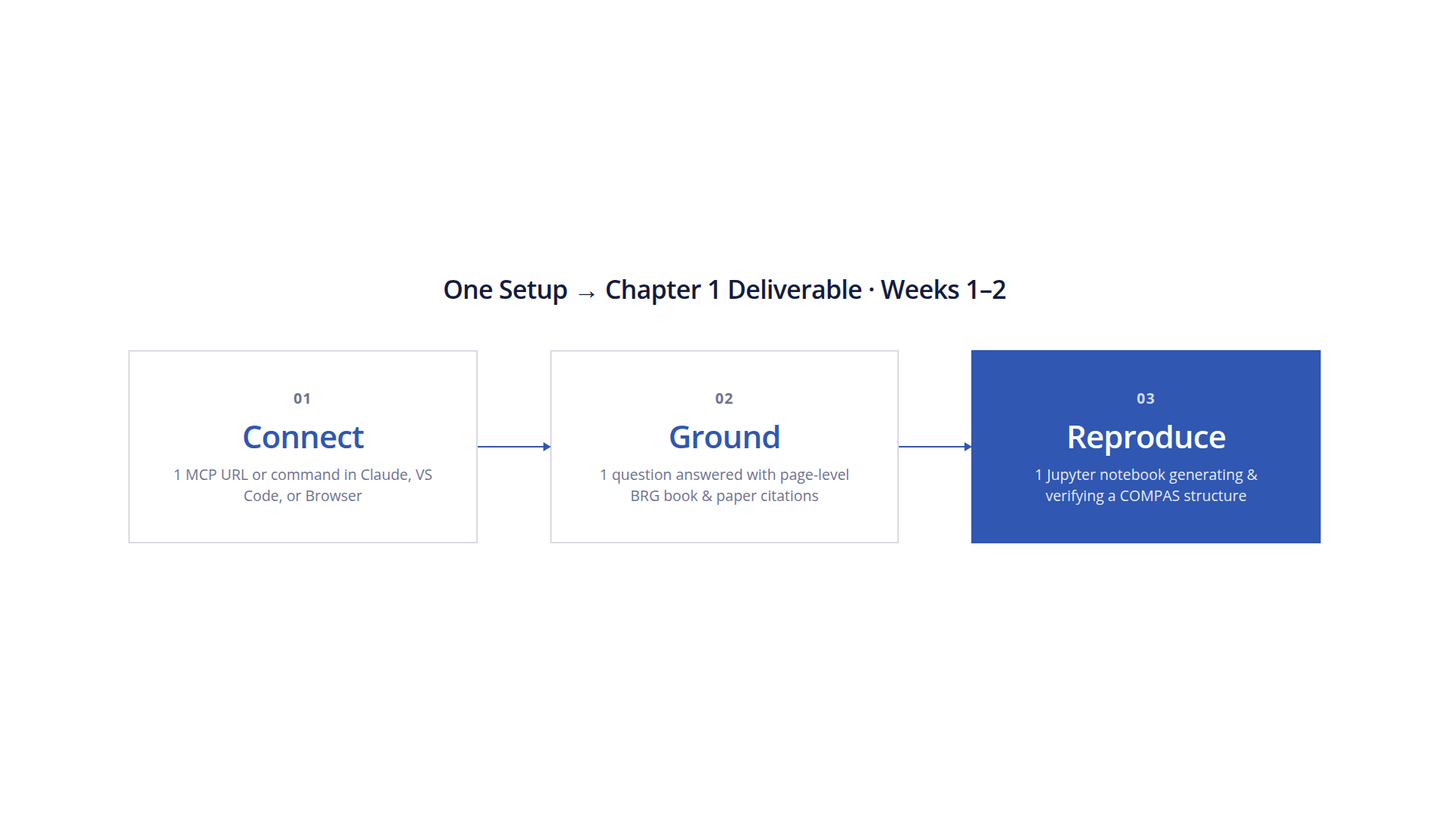
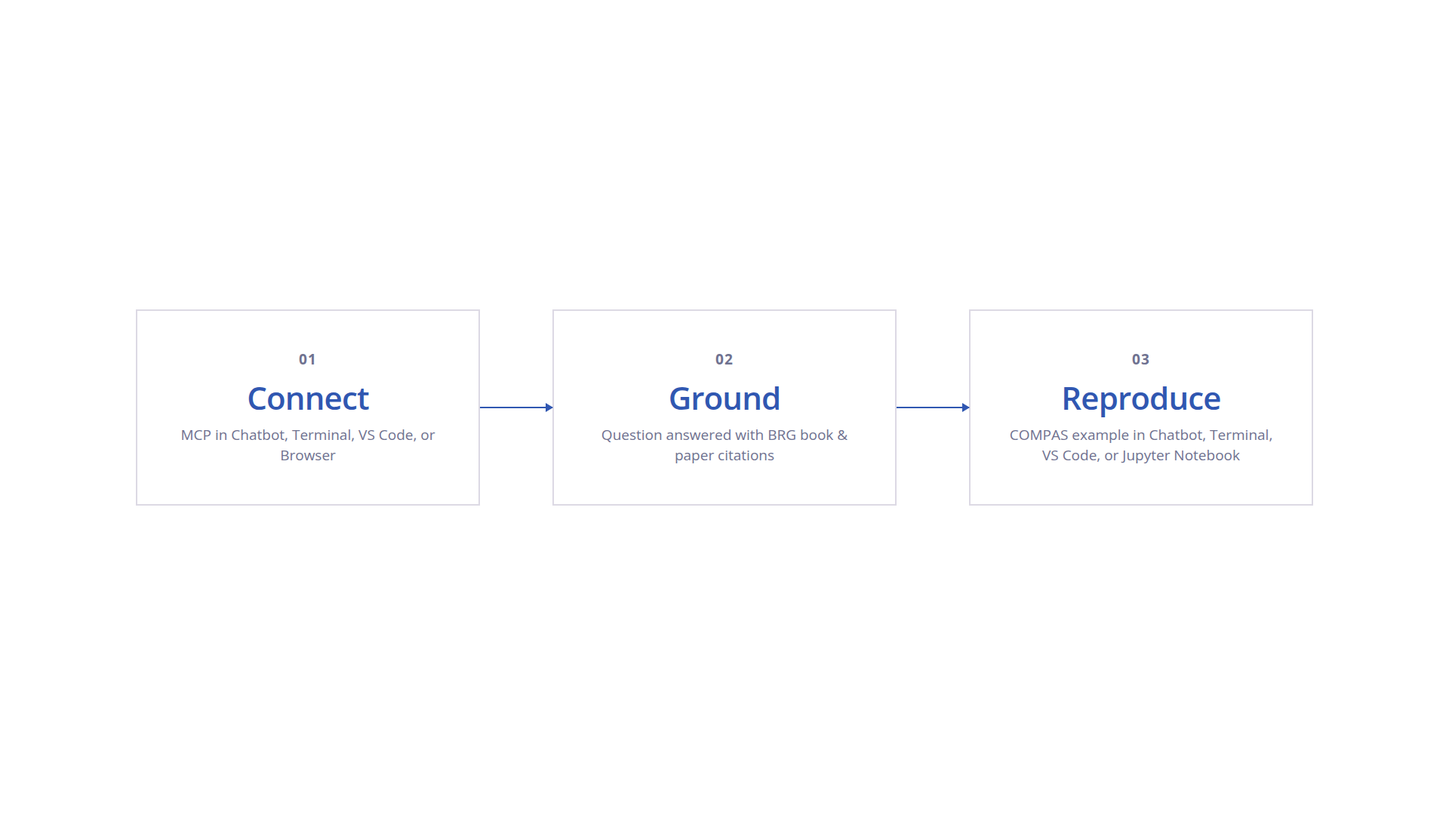
Step central 4 BRG pillars across Slides 3-6, add reflection-cleaned PR3D presentation GIF, maximize workspace laptop, and refine closing slide

diff --git a/CAS/website/data.js b/CAS/website/data.js
@@ -28,8 +28,55 @@ window.CAS = {
             { src: 'presentations/mcp/slide-1.png', alt: 'Laptop showing structural form and force diagrams beside a source-grounded study notebook chat.' },
             { src: 'presentations/mcp/slide-2.png?v=2', alt: 'Books in German, French and English, a laptop showing scripts and an LLM study notebook, and a tablet with graphic statics notes.' },
             {
-              key: 'applications',
-              alt: 'BRG applications: brg_papers, brg_theory, brg_framework and brg_presentation, with brg_framework showcased across Chatbot, Terminal and VS Code.',
+              key: 'applications-papers',
+              alt: 'brg_papers highlighted among the four BRG pillars, showcasing the BRG publications website chatbot querying 154 papers and PhD theses.',
+              applications: {
+                groups: [
+                  { title: 'brg_papers', emphasis: true },
+                  { title: 'brg_theory' },
+                  { title: 'brg_framework' },
+                  { title: 'brg_presentation' },
+                ],
+                laptopFrame: 'presentations/mcp/laptop-frame.png?v=6',
+                singleLaptop: {
+                  screen: 'presentations/mcp/brg-web-chatbot.jpg?v=3',
+                  url: 'library.html#/papers',
+                  title: 'Open BRG Papers & PhD Theses in Library',
+                },
+              },
+            },
+            {
+              key: 'applications-theory',
+              alt: 'brg_theory highlighted among the four BRG pillars, showing historical Graphic Statics books turned into a searchable MCP resource.',
+              applications: {
+                groups: [
+                  { title: 'brg_papers' },
+                  { title: 'brg_theory', emphasis: true },
+                  { title: 'brg_framework' },
+                  { title: 'brg_presentation' },
+                ],
+                booksResource: {
+                  books: [
+                    { author: 'Bow', year: '1873', short: 'Diagrams of Forces', cover: 'presentations/mcp/gs-books/bow-1873.jpg', href: 'library.html#/b/framed-structures-bow' },
+                    { author: 'Cremona', year: '1879', short: 'Reciprocal Figures', cover: 'presentations/mcp/gs-books/cremona-1879.jpg', href: 'library.html#/b/cremona-graphical-calculus-part-2' },
+                    { author: 'Henneberg', year: '1911', short: 'Graphische Statik', cover: 'presentations/mcp/gs-books/henneberg-1911.jpg', href: 'library.html#/b/graphic-statics-henneberg' },
+                    { ellipsis: true },
+                    { author: 'Föppl', year: '1920', short: 'Graphische Statik', cover: 'presentations/mcp/gs-books/foeppl-1920.jpg', href: 'library.html#/b/graphic-statics-foeppl' },
+                    { author: 'Trefftz', year: '1936', short: 'Graphostatik', cover: 'presentations/mcp/gs-books/trefftz-1936.jpg', href: 'library.html#/b/graphostatics-trefftz' },
+                  ],
+                  pipeline: [
+                    { title: 'Scans', sub: 'PDFs & plates' },
+                    { title: 'OCR & LaTeX', sub: 'Equations & layout' },
+                    { title: 'Translation', sub: 'Proofread Markdown & figures' },
+                    { title: 'Cloudflare R2', sub: 'LIBRARY.md & chapters' },
+                    { title: 'MCP', sub: 'books-mcp resource', emphasis: true },
+                  ],
+                },
+              },
+            },
+            {
+              key: 'applications-framework',
+              alt: 'brg_framework highlighted among the four BRG pillars, showcased across Chatbot, Terminal and VS Code.',
               applications: {
                 groups: [
                   { title: 'brg_papers' },
@@ -45,12 +92,28 @@ window.CAS = {
                 ],
               },
             },
+            {
+              key: 'applications-presentation',
+              alt: 'brg_presentation highlighted among the four BRG pillars, showing PR3D in 3D slides (Closed joint and Open source workflow) inside the laptop.',
+              applications: {
+                groups: [
+                  { title: 'brg_papers' },
+                  { title: 'brg_theory' },
+                  { title: 'brg_framework' },
+                  { title: 'brg_presentation', emphasis: true },
+                ],
+                laptopFrame: 'presentations/mcp/laptop-frame.png?v=6',
+                singleLaptop: {
+                  screen: 'presentations/mcp/brg-presentation.gif?v=1',
+                },
+              },
+            },
             { src: 'presentations/mcp/slide-4.png?v=1', alt: 'LLM for BRG architecture: Context layers (MCP, Skills, Hooks, Memory, Agents) connected to BRG and the Context, Parsing, Storage, Indexing and LLM pipeline.' },
             { src: 'presentations/mcp/slide-5.png?v=1', alt: 'Method focus across four subjects: FD (Force Density, highlighted), DR (Dynamic Relaxation), TNA (Thrust Network Analysis) and AGS (Algebraic Graphic Statics).' },
             { src: 'presentations/mcp/slide-6.png?v=2', alt: 'Folder structure of brg_framework MCP for the Force Density (FD) method.' },
             {
               key: 'interactive-drawing-fd',
-              alt: 'Interactive Force Density presentations (5 clickable decks) and presentation.yaml internals, displayed beside a large clickable laptop.',
+              alt: 'Interactive Force Density presentations (5 clickable decks) and 02-question.yaml stage format, displayed beside a large clickable laptop.',
               interactiveDrawing: {
                 methodTitle: 'FD · Interactive Drawings',
                 methodSub: '5 decks',
@@ -61,16 +124,19 @@ window.CAS = {
                   { title: 'Jacobian & Matrix Derivation', url: 'https://petrasvestartas.github.io/session/?stage=force-density-derivation' },
                   { title: 'Materialization & Cut Lengths', url: 'https://petrasvestartas.github.io/session/?stage=force-density-materialization' },
                 ],
-                specTitle: 'presentation.yaml',
-                yaml: `name: Force Density
-spatial_split: 0.56
-topics:
-  - title: 1 Equilibrium
+                specTitle: '02-question.yaml',
+                yaml: `title: QUESTION
+camera: { yaw: -58, pitch: 26 }
+net:
+  fixed: { n1: [0,0,0], n2: [5,0,3] }
+  free: { n0: [3.6, 3.4, 1.9] }
+  cables: { e0: [n0, n1], e1: [n0, n2] }
+  q: 1
+slides:
+  - title: POSITION OF FREE NODE n0
     steps:
-      - file: steps/00_00.pb
-        effects:
-          - { name: poly-0, kind: morph }
-          - { name: eq-sum, kind: grow }`,
+      - say: 'Four fixed nodes...'
+        show: net`,
                 laptopFrame: 'presentations/mcp/laptop-frame.png?v=6',
                 gif: 'presentations/mcp/fd-interactive.gif?v=1',
                 url: 'https://petrasvestartas.github.io/session/?stage=force-density',
@@ -107,57 +173,15 @@ slides:
               },
             },
             {
-              key: 'books-resource',
-              alt: 'Compact Graphic Statics books with original covers turned into a digital MCP resource via scanning, OCR & LaTeX, translation, Cloudflare R2 storage and MCP.',
-              booksResource: {
-                lead: 'LLMs are built for text — turning historical books into searchable digital resources.',
-                books: [
-                  { author: 'Bow', year: '1873', short: 'Diagrams of Forces', cover: 'presentations/mcp/gs-books/bow-1873.jpg', href: 'library.html#/b/framed-structures-bow' },
-                  { author: 'Cremona', year: '1879', short: 'Reciprocal Figures', cover: 'presentations/mcp/gs-books/cremona-1879.jpg', href: 'library.html#/b/cremona-graphical-calculus-part-2' },
-                  { author: 'Henneberg', year: '1911', short: 'Graphische Statik', cover: 'presentations/mcp/gs-books/henneberg-1911.jpg', href: 'library.html#/b/graphic-statics-henneberg' },
-                  { ellipsis: true },
-                  { author: 'Föppl', year: '1920', short: 'Graphische Statik', cover: 'presentations/mcp/gs-books/foeppl-1920.jpg', href: 'library.html#/b/graphic-statics-foeppl' },
-                  { author: 'Trefftz', year: '1936', short: 'Graphostatik', cover: 'presentations/mcp/gs-books/trefftz-1936.jpg', href: 'library.html#/b/graphostatics-trefftz' },
-                ],
-                pipeline: [
-                  { title: 'Scans', sub: 'PDFs & plates' },
-                  { title: 'OCR & LaTeX', sub: 'Equations & layout' },
-                  { title: 'Translation', sub: 'Proofread Markdown & figures' },
-                  { title: 'Cloudflare R2', sub: 'LIBRARY.md & chapters' },
-                  { title: 'MCP', sub: 'books-mcp resource', emphasis: true },
-                ],
-              },
-            },
-            {
-              key: 'papers-resource',
-              alt: 'brg_papers and PhD theses (154 papers, 2006–2024) powering traceable citations, research-gap mapping, and a chatbot on the BRG publications website.',
-              papersResource: {
-                title: 'brg_papers',
-                count: '154 papers · PhD theses · 2006–2024',
-                subjects: 'TNA & Masonry · Materialization · Graphic Statics · Form Finding',
-                uses: [
-                  { title: 'Traceable Citations', sub: 'Exact paper, figure & page URL' },
-                  { title: 'Research-Gap Mapping', sub: 'Covered vs. missing lines' },
-                ],
-                laptopFrame: 'presentations/mcp/laptop-frame.png?v=6',
-                screen: 'presentations/mcp/brg-web-chatbot.jpg?v=3',
-                url: 'library.html#/papers',
-                hint: 'Open BRG papers & theses in Library ↗',
-              },
-            },
-            { src: 'presentations/mcp/slide-10.png?v=2', alt: 'LLMs propose, solvers verify: LLM parses text and writes COMPAS script, COMPAS Solver computes exact equilibrium (residual = 0), and Verified Model / Plot returns errors and residuals to the LLM.' },
-            {
               key: 'workspace-slide',
               alt: 'Zero-install browser workspace combining the BRG Library, BRG Terminal, and JupyterLite in one screen with Claude, Gemini, and Kimi support.',
               workspaceSlide: {
-                lead: 'Zero-install Day-1 workspace — Library, BRG Terminal & JupyterLite in one browser tab.',
                 laptopFrame: 'presentations/mcp/laptop-frame.png?v=6',
                 screen: 'presentations/mcp/workspace-screen.jpg?v=2',
                 url: 'library.html#/notebook',
-                hint: 'Open browser workspace (Claude · Gemini · Kimi) ↗',
               },
             },
-            { src: 'presentations/mcp/slide-12.png?v=2', alt: 'One Setup to Chapter 1 Deliverable (Weeks 1–2): 01 Connect MCP, 02 Ground an answer with page-level BRG book & paper citations, 03 Reproduce a verified COMPAS structure in a Jupyter notebook.' },
+            { src: 'presentations/mcp/slide-12.png?v=3', alt: '01 Connect MCP in Chatbot, Terminal, VS Code, or Browser; 02 Ground a question with BRG book & paper citations; 03 Reproduce a COMPAS example in Chatbot, Terminal, VS Code, or Jupyter Notebook.' },
           ],
         },
         items: [

diff --git a/CAS/website/style.css b/CAS/website/style.css
@@ -225,14 +225,26 @@ details[open] > summary .pm::after { transform: rotate(0deg); }
 .presentation-header { flex: none; display: grid; grid-template-columns: 1fr auto 1fr; align-items: center; gap: 12px; padding: 8px 16px; border-bottom: 1px solid var(--rule); }
 .presentation-header > span { color: var(--muted); font-size: 14px; }
 .presentation-close { justify-self: end; width: 40px; height: 40px; padding: 0; border: 0; background: none; color: var(--ink); font-size: 32px; line-height: 1; cursor: pointer; }
-.presentation-stage { flex: 1; min-height: 0; display: flex; align-items: center; justify-content: center; overflow: hidden; }
-.presentation-stage > img { display: block; width: 100%; height: 100%; object-fit: contain; }
-.apps-triangle-slide { position: relative; width: min(100vw, calc((100svh - 104px) * 1.98)); height: min(100%, 960px); max-width: 1900px; }
-.apps-top-center { position: absolute; left: 50%; top: 2%; transform: translateX(-50%); width: 13.5%; display: flex; flex-direction: column; gap: clamp(6px, 0.9vh, 10px); z-index: 3; }
-.apps-node { min-height: clamp(34px, 4.5vh, 48px); padding: 6px 12px; border: 2px solid var(--rule); background: var(--paper); display: flex; align-items: center; justify-content: center; text-align: center; }
-.apps-node strong { font-size: clamp(12px, 1.65vh, 17px); font-weight: 600; letter-spacing: -.015em; color: var(--c); line-height: 1.1; }
+.presentation-stage { flex: 1; min-height: 0; display: flex; flex-direction: column; overflow-x: hidden; overflow-y: auto; }
+.presentation-stage > img { display: block; width: 100%; height: 100%; object-fit: contain; margin: auto; }
+.apps-triangle-slide { position: relative; flex: none; margin: auto; width: min(100%, calc((100svh - 118px) * 1.979), 1900px); aspect-ratio: 1900 / 960; container-type: size; }
+.apps-top-center { position: absolute; left: 50%; top: 2%; transform: translateX(-50%); width: clamp(120px, 13.5%, 240px); display: flex; flex-direction: column; gap: 0.9cqb; z-index: 3; }
+.apps-node { width: 100%; min-height: 4.5cqb; padding: 0.4cqb 8px; border: 2px solid var(--rule); background: var(--paper); font: inherit; cursor: pointer; display: flex; align-items: center; justify-content: center; text-align: center; transition: border-color .15s, background .15s; }
+.apps-node:hover { border-color: var(--c); }
+.apps-node strong { font-size: clamp(9.5px, 1.8cqb, 17px); font-weight: 600; letter-spacing: -.015em; color: var(--c); line-height: 1.1; white-space: nowrap; }
 .apps-node.emphasis { border-color: var(--c); background: var(--c); }
 .apps-node.emphasis strong { color: #fff; }
+.apps-single-laptop { position: absolute; left: 50%; bottom: 0.8%; transform: translateX(-50%); width: 54.2%; display: block; text-decoration: none; color: inherit; transition: transform .2s; }
+a.apps-single-laptop:hover { transform: translateX(-50%) scale(1.008); }
+.apps-books-body { position: absolute; left: 50%; top: 25.5%; bottom: 1.5%; transform: translateX(-50%); width: 84%; display: flex; flex-direction: column; align-items: center; justify-content: center; gap: 2.6cqb; }
+.apps-books-body .books-shelf { gap: 1.8cqi; }
+.apps-books-body .books-cover-wrap { height: 27cqb; }
+.apps-books-body .books-ellipsis { padding-bottom: 3.5cqb; font-size: clamp(18px, 3.6cqb, 36px); }
+.apps-books-body .books-pipe-box { min-height: 7.5cqb; padding: 0.8cqb 8px; }
+.apps-books-body .books-pipe-arrow { height: 7.5cqb; }
+.apps-books-body .books-pipe-box strong { font-size: clamp(11px, 2.1cqb, 20px); }
+.apps-books-body .books-card strong { font-size: clamp(11px, 2cqb, 19px); margin-top: 0.3cqb; }
+.apps-books-body .books-card span, .apps-books-body .books-pipe-step span { font-size: clamp(9.5px, 1.5cqb, 14px); }
 .apps-demo { position: absolute; width: 42.5%; display: flex; flex-direction: column; align-items: center; gap: 4px; text-decoration: none; color: inherit; }
 .apps-demo.pos-0 { left: 0.4%; top: 1%; z-index: 1; }
 .apps-demo.pos-2 { right: 0.4%; top: 1%; z-index: 1; }
@@ -242,7 +254,7 @@ details[open] > summary .pm::after { transform: rotate(0deg); }
 .apps-laptop { position: relative; width: 100%; }
 .apps-laptop-frame { display: block; width: 100%; height: auto; }
 .apps-laptop-screen { position: absolute; left: 11.402%; top: 3.771%; width: 76.515%; height: 72.114%; object-fit: cover; border-radius: 1.3% 1.3% 0 0; }
-.idraw-slide, .papers-slide { width: min(98vw, 1800px); max-height: 100%; padding: clamp(10px, 1.8vh, 24px) clamp(12px, 2vw, 32px); display: grid; grid-template-columns: minmax(290px, 420px) 44px minmax(480px, 1150px); align-items: center; justify-content: center; gap: 12px; overflow-y: auto; }
+.idraw-slide, .papers-slide { flex: none; margin: auto; width: min(98vw, 1800px); padding: clamp(10px, 1.8vh, 24px) clamp(12px, 2vw, 32px); display: grid; grid-template-columns: minmax(290px, 420px) 44px minmax(480px, 1150px); align-items: center; justify-content: center; gap: 12px; }
 .papers-slide { grid-template-columns: minmax(270px, 360px) 44px minmax(500px, 1200px); }
 .idraw-left { display: flex; flex-direction: column; gap: clamp(10px, 1.5vh, 16px); min-width: 0; }
 .idraw-list-box { border: 2px solid var(--rule); background: var(--paper); display: flex; flex-direction: column; }
@@ -259,14 +271,14 @@ details[open] > summary .pm::after { transform: rotate(0deg); }
 .idraw-yaml { border: 2px solid var(--rule); background: var(--paper); display: flex; flex-direction: column; }
 .idraw-yaml-head { padding: 8px 16px; border-bottom: 1px solid var(--rule); }
 .idraw-yaml-head strong { font-size: clamp(13.5px, 1.75vh, 17px); font-weight: 600; color: var(--c); }
-.idraw-yaml-code { margin: 0; padding: clamp(10px, 1.4vh, 15px) 16px; font: 400 clamp(11px, 1.38vh, 14px)/1.45 ui-monospace, "SFMono-Regular", Menlo, Consolas, monospace; color: var(--ink); overflow-x: auto; }
+.idraw-yaml-code { margin: 0; padding: clamp(10px, 1.4vh, 15px) 14px; font: 400 clamp(10.5px, min(1.38vh, 1.05vw), 14px)/1.45 ui-monospace, "SFMono-Regular", Menlo, Consolas, monospace; color: var(--ink); overflow-x: auto; }
 .slide-arrow { display: flex; align-items: center; justify-content: center; }
 .slide-arrow i { position: relative; display: block; width: 34px; height: 2px; background: var(--c); }
 .slide-arrow i::after { content: ""; position: absolute; right: -1px; top: 50%; margin-top: -5px; border-top: 5px solid transparent; border-bottom: 5px solid transparent; border-left: 8px solid var(--c); }
-.idraw-laptop-link { width: 100%; display: flex; flex-direction: column; align-items: center; gap: 8px; text-decoration: none; color: inherit; transition: transform .2s; }
+.idraw-laptop-link { width: min(100%, calc((100svh - 172px) * 1.508)); margin: 0 auto; display: flex; flex-direction: column; align-items: center; gap: 8px; text-decoration: none; color: inherit; transition: transform .2s; }
 .idraw-laptop-link:hover { transform: scale(1.01); }
 .idraw-click-hint { font-size: clamp(13px, 1.65vh, 16px); font-weight: 600; color: var(--c); }
-.books-slide { width: min(96vw, 1640px); max-height: 100%; padding: clamp(12px, 2vh, 28px) clamp(16px, 2.5vw, 40px); display: flex; flex-direction: column; align-items: center; justify-content: center; gap: clamp(20px, 3.6vh, 40px); overflow-y: auto; }
+.books-slide { flex: none; margin: auto; width: min(96vw, 1640px); padding: clamp(12px, 2vh, 28px) clamp(16px, 2.5vw, 40px); display: flex; flex-direction: column; align-items: center; gap: clamp(20px, 3.6vh, 40px); }
 .books-lead { margin: 0; font-size: clamp(17px, 2.35vh, 25px); font-weight: 600; letter-spacing: -.015em; color: var(--ink); text-align: center; line-height: 1.3; }
 .books-shelf { width: 100%; max-width: 1540px; display: grid; grid-template-columns: 1fr 1fr 1fr auto 1fr 1fr; gap: clamp(14px, 2vw, 32px); align-items: end; }
 .books-ellipsis { align-self: center; padding: 0 8px 36px; font-size: clamp(24px, 3.4vh, 38px); font-weight: 700; color: var(--c); letter-spacing: .12em; white-space: nowrap; }
@@ -293,12 +305,23 @@ details[open] > summary .pm::after { transform: rotate(0deg); }
 .papers-pill.emphasis { border-color: var(--c); background: var(--c); }
 .papers-pill.emphasis strong { color: #fff; }
 .papers-pill.emphasis span { color: rgba(255, 255, 255, .86); }
-.workspace-slide { width: min(98vw, 1560px); max-height: 100%; padding: clamp(10px, 1.8vh, 24px); display: flex; flex-direction: column; align-items: center; justify-content: center; gap: clamp(12px, 2vh, 22px); overflow-y: auto; }
-.workspace-laptop-link { width: min(100%, calc((100svh - 175px) * 1.508)); max-width: 1220px; display: flex; flex-direction: column; align-items: center; gap: 8px; text-decoration: none; color: inherit; transition: transform .2s; }
+.workspace-slide { flex: none; margin: auto; width: 100%; padding: clamp(6px, 1.2vh, 14px); display: flex; flex-direction: column; align-items: center; }
+.workspace-laptop-link { width: min(96vw, calc((100svh - 148px) * 1.508), 1640px); min-width: min(96vw, 340px); display: flex; flex-direction: column; align-items: center; text-decoration: none; color: inherit; transition: transform .2s; }
 .workspace-laptop-link:hover { transform: scale(1.01); }
 @media (max-width: 960px) {
-  .apps-triangle-slide { position: static; width: 100%; height: auto; padding: 12px; display: flex; flex-direction: column; align-items: center; gap: 16px; overflow-y: auto; }
-  .apps-top-center, .apps-demo, .apps-demo.pos-0, .apps-demo.pos-1, .apps-demo.pos-2 { position: static; width: min(100%, 560px); transform: none; }
+  .apps-triangle-slide { position: static; width: 100%; height: auto; aspect-ratio: auto; container-type: normal; padding: 16px 12px; display: flex; flex-direction: column; align-items: center; gap: 16px; }
+  .apps-top-center, .apps-demo, .apps-demo.pos-0, .apps-demo.pos-1, .apps-demo.pos-2, .apps-single-laptop, .apps-books-body { position: static; width: min(100%, 560px); transform: none; }
+  .apps-top-center { gap: 8px; }
+  .apps-node { min-height: 40px; padding: 8px 12px; }
+  .apps-node strong { font-size: 15px; }
+  a.apps-single-laptop:hover { transform: none; }
+  .apps-books-body { width: min(100%, 720px); gap: 20px; }
+  .apps-books-body .books-shelf { gap: 16px; }
+  .apps-books-body .books-cover-wrap { height: 170px; }
+  .apps-books-body .books-ellipsis { padding-bottom: 24px; font-size: 28px; }
+  .apps-books-body .books-pipe-box { min-height: 56px; padding: 10px 12px; }
+  .apps-books-body .books-pipe-box strong, .apps-books-body .books-card strong { font-size: 16px; }
+  .apps-books-body .books-card span, .apps-books-body .books-pipe-step span { font-size: 13px; }
   .idraw-slide, .papers-slide { grid-template-columns: 1fr; justify-items: center; }
   .idraw-left, .papers-col { width: min(100%, 560px); }
   .slide-arrow { display: none; }

diff --git a/website/src/PresentationSlideshow.vue b/website/src/PresentationSlideshow.vue
@@ -19,6 +19,10 @@ const open = async () => {
 const close = () => dialog.value.close();
 const previous = () => { current.value = (current.value + props.slides.length - 1) % props.slides.length; };
 const next = () => { current.value = (current.value + 1) % props.slides.length; };
+const jumpToGroup = (title) => {
+  const idx = props.slides.findIndex((s) => s.applications?.groups?.some((g) => g.title === title && g.emphasis));
+  if (idx >= 0) current.value = idx;
+};
 const onKeydown = (event) => {
   if (event.key === 'ArrowLeft') {
     event.preventDefault();
@@ -46,23 +50,66 @@ const onKeydown = (event) => {
         <button ref="closeButton" type="button" class="presentation-close" aria-label="Close presentation" @click="close">×</button>
       </header>
       <div class="presentation-stage">
-        <!-- Slide 3: Triangle-tiled large GIF laptops + vertical BRG stack + borderless labels -->
+        <!-- Slides 3–6: Central 4 BRG pillars stepping highlight across brg_papers, brg_theory, brg_framework, brg_presentation -->
         <div v-if="slides[current].applications" class="apps-triangle-slide" :aria-label="slides[current].alt">
           <div class="apps-top-center">
-            <div v-for="item in slides[current].applications.groups" :key="item.title"
-                 class="apps-node" :class="{ emphasis: item.emphasis }">
+            <button v-for="item in slides[current].applications.groups" :key="item.title" type="button"
+                    class="apps-node" :class="{ emphasis: item.emphasis }" :aria-pressed="item.emphasis ? 'true' : 'false'"
+                    @click="jumpToGroup(item.title)">
               <strong>{{ item.title }}</strong>
-            </div>
+            </button>
           </div>
-          <a v-for="(demo, idx) in slides[current].applications.demos" :key="demo.title"
-             class="apps-demo" :class="`pos-${idx}`" :href="demo.url" target="_blank" rel="noopener"
-             :title="`Watch ${demo.title} video on YouTube`">
-            <strong class="apps-demo-label">{{ demo.title }}</strong>
+
+          <template v-if="slides[current].applications.demos">
+            <a v-for="(demo, idx) in slides[current].applications.demos" :key="demo.title"
+               class="apps-demo" :class="`pos-${idx}`" :href="demo.url" target="_blank" rel="noopener"
+               :title="`Watch ${demo.title} video on YouTube`">
+              <strong class="apps-demo-label">{{ demo.title }}</strong>
+              <div class="apps-laptop">
+                <img class="apps-laptop-frame" :src="slides[current].applications.laptopFrame" alt="">
+                <img class="apps-laptop-screen" :src="demo.gif" :alt="`${demo.title} showcase`">
+              </div>
+            </a>
+          </template>
+
+          <component :is="slides[current].applications.singleLaptop.url ? 'a' : 'div'"
+                     v-else-if="slides[current].applications.singleLaptop"
+                     class="apps-single-laptop"
+                     :href="slides[current].applications.singleLaptop.url || undefined"
+                     :target="slides[current].applications.singleLaptop.url ? '_blank' : undefined"
+                     :rel="slides[current].applications.singleLaptop.url ? 'noopener' : undefined"
+                     :title="slides[current].applications.singleLaptop.title || undefined">
             <div class="apps-laptop">
               <img class="apps-laptop-frame" :src="slides[current].applications.laptopFrame" alt="">
-              <img class="apps-laptop-screen" :src="demo.gif" :alt="`${demo.title} showcase`">
+              <img class="apps-laptop-screen" :src="slides[current].applications.singleLaptop.screen" :alt="slides[current].alt">
             </div>
-          </a>
+          </component>
+
+          <div v-else-if="slides[current].applications.booksResource" class="apps-books-body">
+            <div class="books-shelf">
+              <template v-for="(book, idx) in slides[current].applications.booksResource.books" :key="book.href || idx">
+                <div v-if="book.ellipsis" class="books-ellipsis" aria-label="More graphic statics books">· · ·</div>
+                <a v-else class="books-card" :href="book.href" target="_blank" rel="noopener">
+                  <div class="books-cover-wrap">
+                    <img :src="book.cover" :alt="`${book.author} (${book.year})`">
+                  </div>
+                  <strong>{{ book.author }}</strong>
+                  <span>{{ book.year }} · {{ book.short }}</span>
+                </a>
+              </template>
+            </div>
+            <div class="books-pipe">
+              <template v-for="(step, idx) in slides[current].applications.booksResource.pipeline" :key="step.title">
+                <div class="books-pipe-step">
+                  <div class="books-pipe-box" :class="{ emphasis: step.emphasis }">
+                    <strong>{{ step.title }}</strong>
+                  </div>
+                  <span>{{ step.sub }}</span>
+                </div>
+                <div v-if="idx < slides[current].applications.booksResource.pipeline.length - 1" class="books-pipe-arrow" aria-hidden="true"><i></i></div>
+              </template>
+            </div>
+          </div>
         </div>
 
         <!-- Slides 7 & 8: Interactive Drawings (FD and TNA clickable lists + YAML internals -> Large Clickable Laptop GIF) -->
@@ -153,7 +200,7 @@ const onKeydown = (event) => {
           </a>
         </div>
 
-        <!-- Slide 12: Zero-install Student Browser Workspace -->
+        <!-- Slide 11: Zero-install Student Browser Workspace -->
         <div v-else-if="slides[current].workspaceSlide" class="workspace-slide" :aria-label="slides[current].alt">
           <p v-if="slides[current].workspaceSlide.lead" class="books-lead">{{ slides[current].workspaceSlide.lead }}</p>
           <a class="workspace-laptop-link" :href="slides[current].workspaceSlide.url" target="_blank" rel="noopener">
